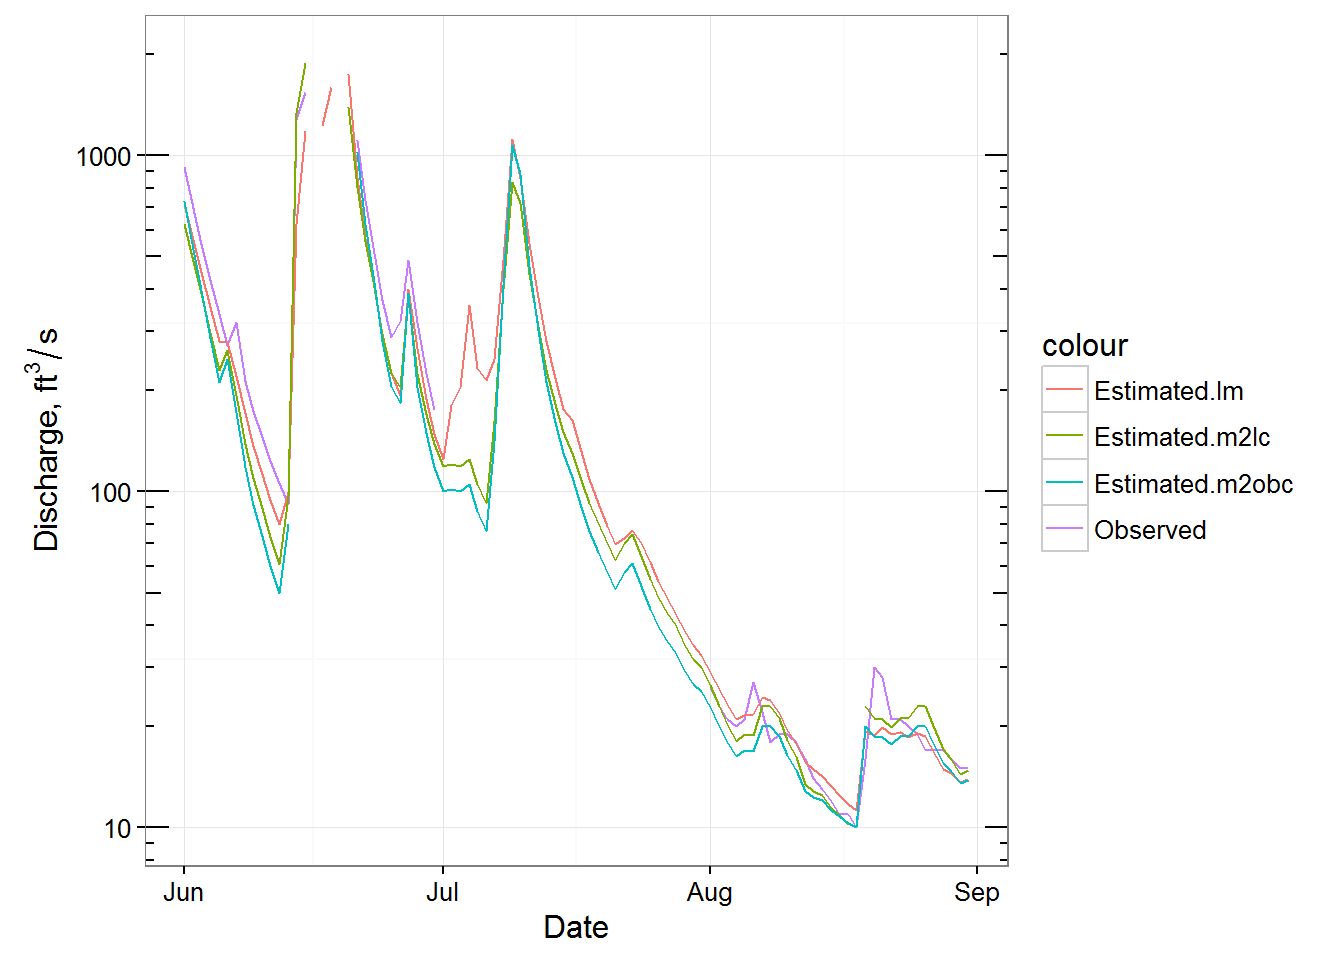
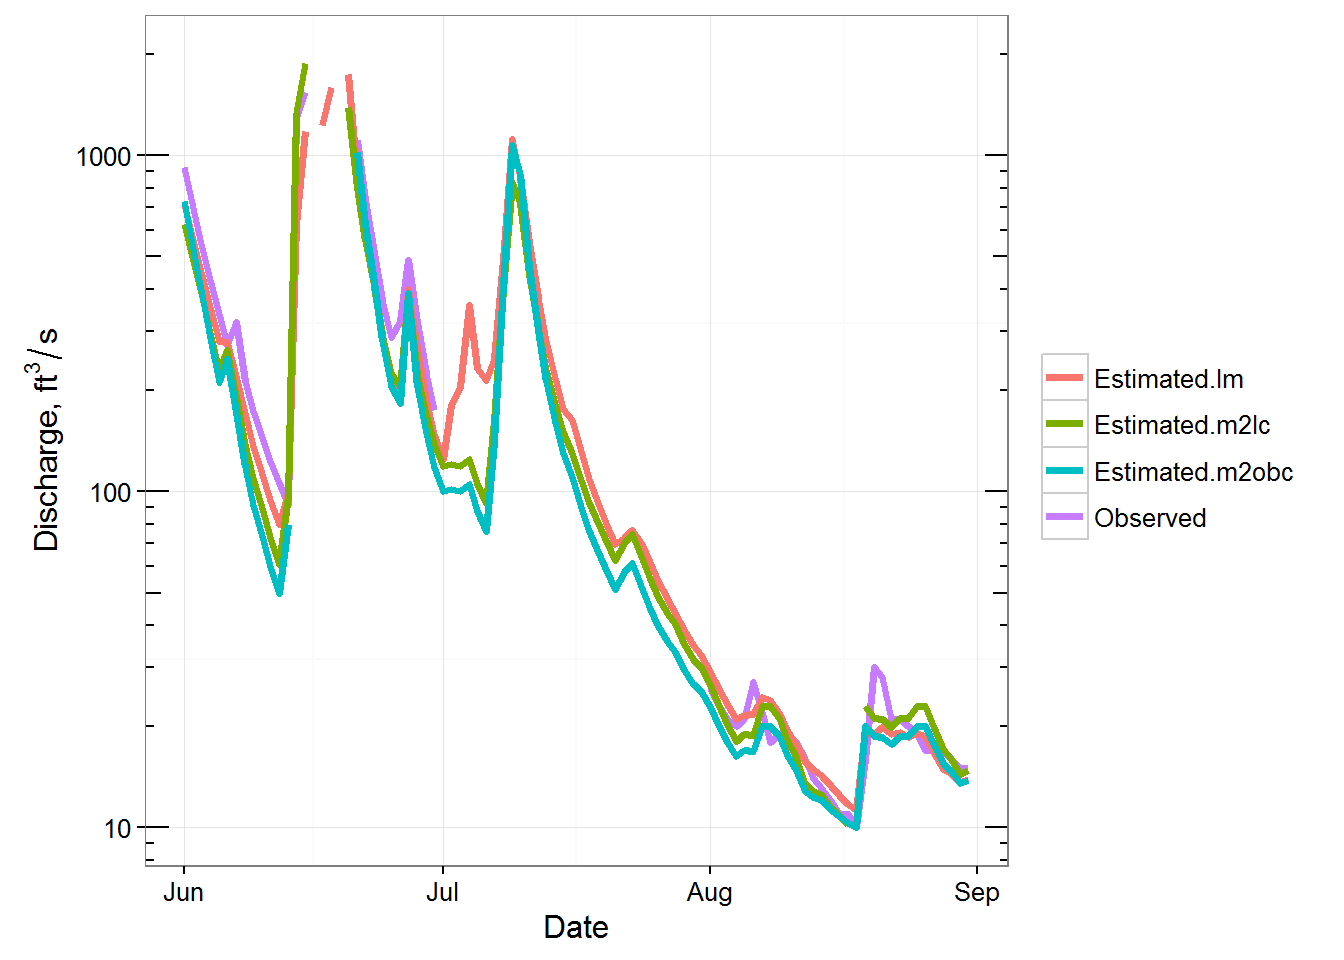
Thicker lines

diff --git a/content/peakFlow.md b/content/peakFlow.md
@@ -376,13 +376,14 @@ comp5680 <- data.frame(Date = DatesVec,
 
 #look at the data
 pLmEst <- ggplot(data = comp5680, aes(x = Date)) +
-  geom_line(aes(y = Observed, color = "Observed")) +
-  geom_line(aes(y = Estimated.lm, color = "Estimated.lm")) +
+  geom_line(aes(y = Observed, color = "Observed"),size=1.25) +
+  geom_line(aes(y = Estimated.lm, color = "Estimated.lm"),size=1.25) +
   scale_y_log10() +
   annotation_logticks(sides = "rl") +
   labs(x = "Date", y = expression(paste(Discharge, ", ", ft^{3}/s))) +
   theme_bw() + 
-  scale_x_date(limits = c(as.Date("2015-06-01"), as.Date("2015-08-31")))
+  scale_x_date(limits = c(as.Date("2015-06-01"), as.Date("2015-08-31"))) +
+  theme(legend.title = element_blank())
 
 
 pLmEst
@@ -411,16 +412,17 @@ comp5680$Estimated.m2obc <- predict(m2obc5680, dataAllDVwide)
 
 #look at the data
 pLmEst <- ggplot(data = comp5680, aes(x = Date)) +
-  geom_line(aes(y = Observed, color = "Observed")) +
-  geom_line(aes(y = Estimated.lm, color = "Estimated.lm")) +
-  geom_line(aes(y = Estimated.m2lc, color = "Estimated.m2lc")) +
-  geom_line(aes(y = Estimated.m2obc, color = "Estimated.m2obc")) +
+  geom_line(aes(y = Observed, color = "Observed"),size=1.25) +
+  geom_line(aes(y = Estimated.lm, color = "Estimated.lm"),size=1.25) +
+  geom_line(aes(y = Estimated.m2lc, color = "Estimated.m2lc"),size=1.25) +
+  geom_line(aes(y = Estimated.m2obc, color = "Estimated.m2obc"),size=1.25) +
   scale_y_log10() +
   annotation_logticks(sides = "rl") +
   labs(x = "Date", y = expression(paste(Discharge, ", ", ft^{3}/s))) +
   theme_bw() + 
   scale_x_date(limits = c(as.Date("2015-06-01"), as.Date("2015-08-31"))) +
-  scale_y_log10(limits = c(10, 2000))
+  scale_y_log10(limits = c(10, 2000)) +
+  theme(legend.title = element_blank())
 
 pLmEst
 ```
@@ -450,15 +452,16 @@ forSmooth$Smoothed.lm <- adjResid(x = forSmooth$Estimated.lm,
 
 #now lets look at the data
 pLmSmooth <- ggplot(data = forSmooth, aes(x = Date)) +
-  geom_line(aes(y = Observed, color = "Observed")) +
-  geom_line(aes(y = Estimated.lm, color = "Estimated.lm")) +
-  geom_line(aes(y = Estimated.m2lc, color = "Estimated.m2lc")) +
-  geom_line(aes(y = Estimated.m2obc, color = "Estimated.m2obc")) +
-  geom_line(aes(y = Smoothed.lm, color = "Smoothed.lm")) +
+  geom_line(aes(y = Observed, color = "Observed"),size=1.25) +
+  geom_line(aes(y = Estimated.lm, color = "Estimated.lm"),size=1.25) +
+  geom_line(aes(y = Estimated.m2lc, color = "Estimated.m2lc"),size=1.25) +
+  geom_line(aes(y = Estimated.m2obc, color = "Estimated.m2obc"),size=1.25) +
+  geom_line(aes(y = Smoothed.lm, color = "Smoothed.lm"),size=1.5) +
   scale_y_log10() +
   annotation_logticks(sides = "rl") +
   labs(x = "Date", y = expression(paste(Discharge, ", ", ft^{3}/s))) +
-  theme_bw()
+  theme_bw() +
+  theme(legend.title = element_blank())
 
 pLmSmooth
 ```
